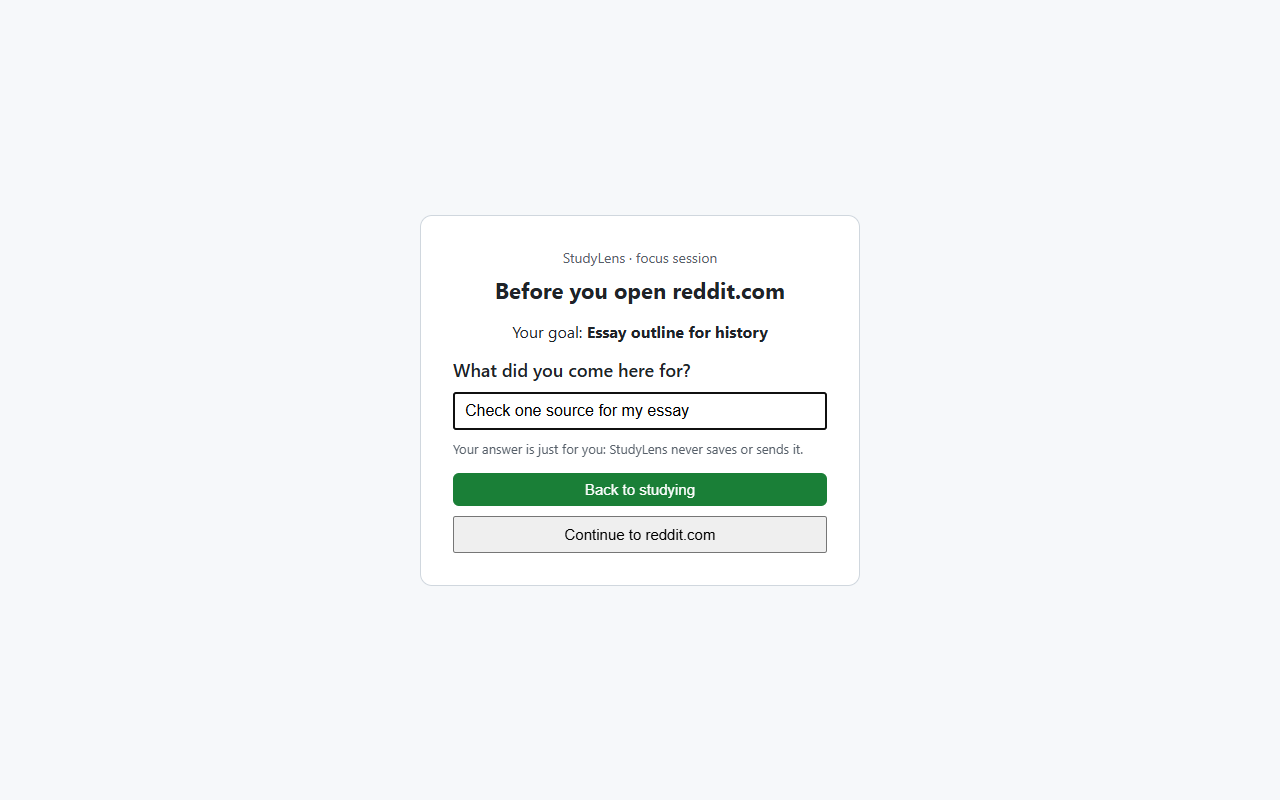
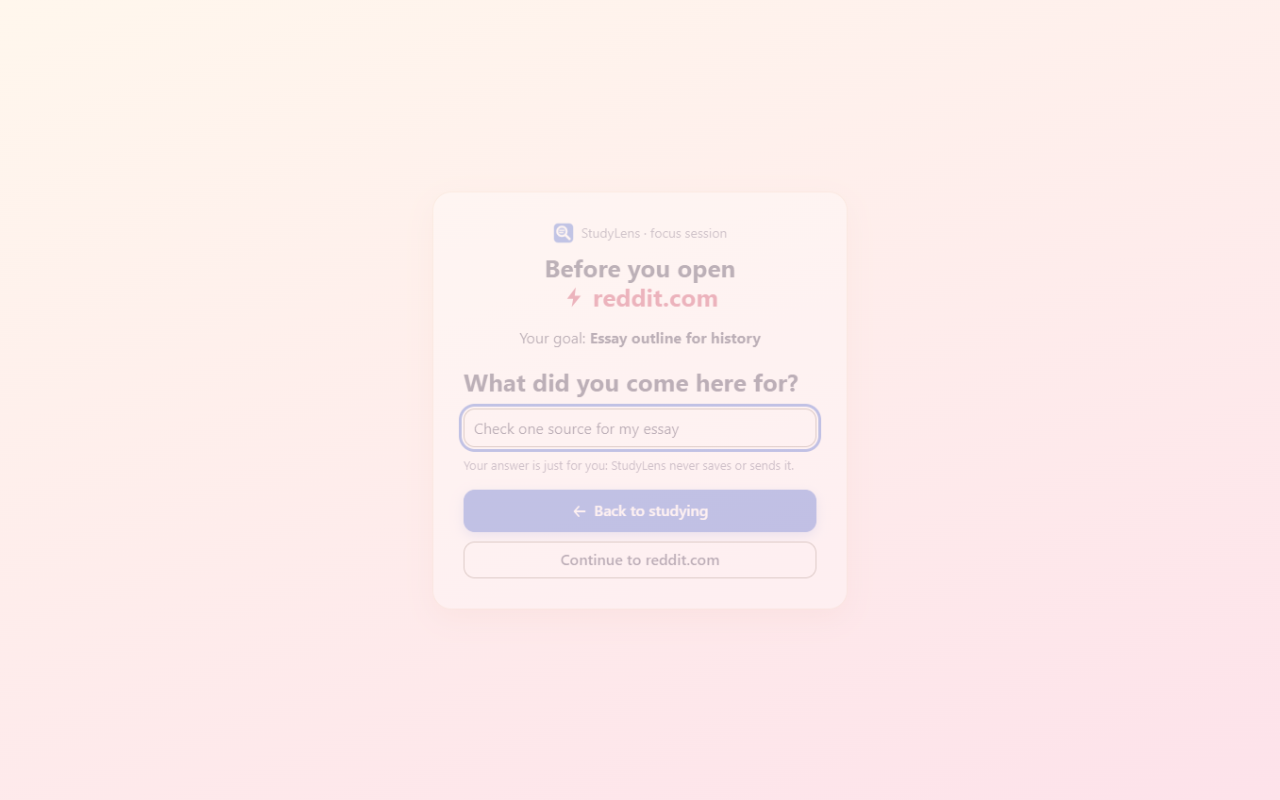
P13b part 9: after-screenshots in all three themes, Sunrise store pictures
- ux-review-shots.mjs takes a theme (sunrise / ocean / pastel), picks it on
  the welcome page like a user, and writes docs/ux-review/after/<theme>/:
  welcome steps 1-3 + all set, popup (fresh install, notice, idle, running,
  check-in, paused, keyboard focus), helper pages, every options tab
  (23 pictures per theme)
- Store screenshots and Edge images refreshed in Sunrise; the script closes
  the welcome tab, marks setup done and sizes the frame to the popup
- CLAUDE.md: the per-theme screenshot command and where the theme tokens
  and FEEDBACK_URL live

Changed region(s): [[0.3438, 0.2812, 0.6875, 0.75]]

diff --git a/CLAUDE.md b/CLAUDE.md
@@ -99,8 +99,12 @@ If a requested change would break one of these rules, stop and tell hs instead o
 - Prove normal builds have no E2E-only code (after both builds): `npm run check:builds -w extension`
 - Icons (after editing `extension/assets/icon.svg`): `npm run icons -w extension`
 - Store screenshots → `docs/store/screenshots/`: `npm run screenshots -w extension`
-- UX review screenshots (every screen, real size) → `docs/ux-review/screens/`:
-  `npm run build:e2e -w extension; node extension/scripts/ux-review-shots.mjs`
+- UX screenshots of every screen, real size, per theme → `docs/ux-review/after/<theme>/`:
+  `npm run build:e2e -w extension; node extension/scripts/ux-review-shots.mjs sunrise` (or `ocean`,
+  `pastel`; no theme = the old v0.2.0 set in `docs/ux-review/screens/`)
+- Themes: tokens in `extension/src/ui/themes.ts` (every color must come from there; unit tests check
+  WCAG AA for every pair in `theme-pairs.ts`). Feedback form link: `FEEDBACK_URL` in
+  `extension/src/ui/feedback.ts` (empty = hidden).
 - Firefox add-on ID `studylens@haygens.github.io` (in `extension/wxt.config.ts`) must NEVER change.
 - Lint: `npm run lint`
 - Format: `npm run format` — check only: `npm run format:check`
